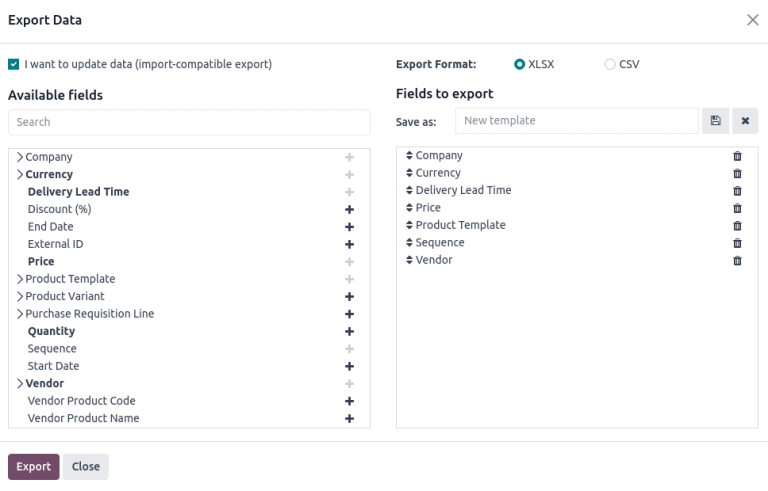
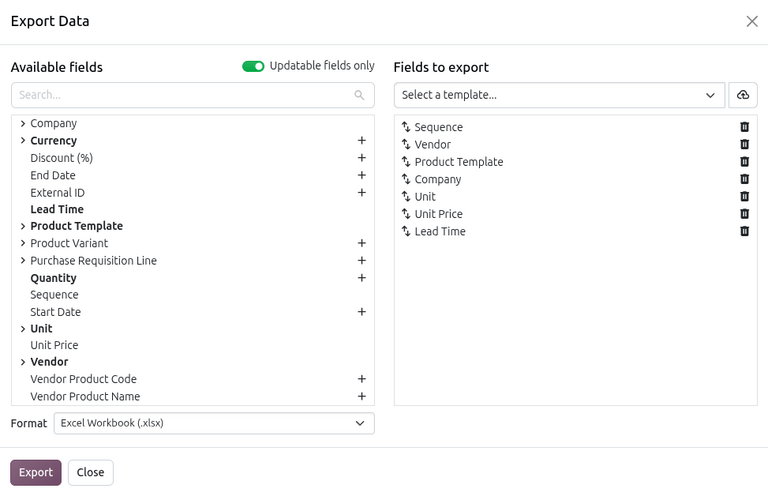
[IMP] Purchase: vendor pricelists update 20.0
closes odoo/documentation#20657

X-original-commit: fd8c2c196b129e9c08eaf0293a3a7c847785ba24

diff --git a/content/applications/inventory_and_mrp/purchase/products/pricelist.rst b/content/applications/inventory_and_mrp/purchase/products/pricelist.rst
@@ -2,12 +2,15 @@
 Import vendor pricelist
 =======================
 
-Set vendor prices to auto-populate requests for quotations (RFQs) or purchase orders (POs) with the
-unit price, once the product is added, which reduces errors and saves time.
+.. |RfQ| replace:: :abbr:`RfQ (Request for Quotation)`
+.. |PO| replace:: :abbr:`PO (Purchase Order)`
 
-In Odoo, vendor pricelists can be :ref:`added individually <purchase/products/pricelist>` on the
-product form, or :ref:`imported in bulk <purchase/products/import-pricelist>`, via an XLSX or CSV
-file.
+In the **Purchase** app, users can add vendor pricelists to products to automatically populate
+requests for quotation (RfQs) or purchase orders (POs) with their unit price, quantity, and lead
+time.
+
+Vendor pricelists can be :ref:`added individually <purchase/products/pricelist>` on the product
+form, or :ref:`imported in bulk <purchase/products/import-pricelist>`, via an XLSX or CSV file.
 
 .. important::
    Please review this :doc:`import guide <../../../essentials/export_import_data>` before uploading
@@ -21,18 +24,29 @@ On product form
 To manually add the vendor price on the product form, go to the :menuselection:`Purchase app -->
 Products --> Products`, and click the desired product.
 
-.. note::
+.. tip::
    Product forms are accessible from multiple apps, such as **Sales**, **Inventory**, and
    **Manufacturing**.
 
-In the :guilabel:`Purchase` tab of the product form, input the vendor and their price, to have this
-information auto-populate on a request for quotation each time the product is listed.
+In the *Purchase* tab of the product form, enter the :guilabel:`Vendor`, :guilabel:`Unit Price`, and
+:guilabel:`Quantity` of the product to auto-populate this information on an |RfQ|.
 
-.. seealso::
-   :ref:`Vendor pricelist on product form <purchase/manage_deals/vendor-pricelist>`
+.. note::
+   Confirming a |PO| does **not** automatically create a vendor pricelist line. When a vendor has no
+   pricelist for the product, the |RfQ| uses the price, discount, and lead time from that vendor's
+   most recently confirmed |PO| line.
 
 .. image:: pricelist/product-form-pricelist.png
    :alt: Vendor pricelist on product form.
+
+.. tip::
+   To compare the last prices each vendor charged, click the :icon:`fa-credit-card`
+   :guilabel:`(Purchased)` smart button on the product form, or :icon:`fa-dollar` :guilabel:`Price
+   Comparison` smart button on a |PO| (if applicable). Records are grouped by product, then by
+   vendor.
+
+.. seealso::
+   :ref:`Vendor pricelist on product form <purchase/manage_deals/vendor-pricelist>`
 
 .. _purchase/products/import-pricelist:
 
@@ -43,7 +57,7 @@ To import vendor pricelists, ensure the XLSX or CSV file is accurately completed
 obtain a correctly formatted template, including product names, references, and vendor details, is
 to first :ref:`export a pricelist <purchase/products/export-price>` from the database.
 
-Modify the exported file, as needed, then import it back into the Odoo database.
+Modify the exported file as needed, then import it back into the Odoo database.
 
 .. _purchase/products/export-price:
 
@@ -52,35 +66,32 @@ Export pricelist
 
 To export a pricelist, go to :menuselection:`Purchase app --> Configuration --> Vendor Pricelists`.
 
-On the page, tick the checkbox(es) for the desired vendor pricelists.
+On the page, select the checkboxes for the desired vendor pricelists. Then, click the :icon:`fa-cog`
+:guilabel:`Actions` button that appears, and choose :icon:`fa-upload` :guilabel:`Export` from the
+drop-down menu.
 
-Then, click the :icon:`fa-cog` :guilabel:`Actions` button that appears, and choose :icon:`fa-upload`
-:guilabel:`Export` from the drop-down menu.
-
-.. image:: pricelist/export.png
-   :alt: Show selected exported fields, with the Export button visible.
-
-In the resulting pop-up window, fields listed under the :guilabel:`Fields to export` section are
-included in the exported file. To add more fields, find the desired field in the
-:guilabel:`Available fields` section, and click the :icon:`fa-plus` :guilabel:`(plus)` icon to the
-right of the field.
+In the resulting pop-up window, fields from the *Fields to export* section are included in the
+exported file. To add more fields, find the desired field in the *Available fields* section, and
+click the :icon:`fa-plus` :guilabel:`(plus)` icon next to the field.
 
 .. note::
-   To update to existing records, tick the :guilabel:`I want to update data (import-compatible
-   export)` checkbox, and refer to the section on the :ref:`External ID
+   Toggle the :icon:`fa-toggle-on` :guilabel:`Updatable fields only` option to filter the *Available
+   fields* to modifiable fields only. Refer to the section on the :ref:`External ID
    <purchase/products/external-id>` field.
 
    For details on commonly-used fields for importing vendor pricelists, see the :ref:`Common fields
    <purchase/products/common-fields>` section.
 
-Select the desired :guilabel:`Export Format`: :guilabel:`XLSX` or :guilabel:`CSV`.
-
-To save the selected fields as a template, click the :guilabel:`Template` field, and select
-:guilabel:`New template` from the drop-down menu. Type the name of the new template, and click the
-:icon:`fa-floppy-o` :guilabel:`(save)` icon. After that, the template is a selectable option when
-clicking the :guilabel:`Template` field.
+Select the desired export :guilabel:`Format`: :guilabel:`Excel Workbook (.xlsx)` or :guilabel:`Plain
+Text (csv)`.
 
 Finally, click :guilabel:`Export`.
+
+.. tip::
+   To save the current list of *Fields to export* as a template, click the :icon:`oi-cloud-upload`
+   :guilabel:`(Save as export template)`. In the resulting text field, set the template name, then
+   click :icon:`fa-check` :guilabel:`(save)` to save or :icon:`fa-xmark` :guilabel:`(cancel)` to
+   cancel.
 
 .. note::
    With :ref:`developer mode <developer-mode>` turned on, the column names of the exported file
@@ -98,9 +109,13 @@ Finally, click :guilabel:`Export`.
 External ID
 ~~~~~~~~~~~
 
-*External ID* is a unique identifier used to update existing vendor pricelists. Without it, imported
-records create new entries, instead of updating existing ones. Including this field in the XLSX or
-CSV, indicates the line replaces an existing vendor pricelist in the Odoo database.
+An *External ID* is a unique identifier used to update existing vendor pricelists. Without it,
+imported records create new entries instead of updating existing ones. Including this field in the
+XLSX or CSV indicates the line replaces an existing vendor pricelist in the Odoo database.
+
+With the :icon:`fa-toggle-on` :guilabel:`Updatable fields only` option toggled, select the
+:guilabel:`External ID` field from the list of *Available fields*. Exporting the data creates a file
+with an additional column containing the external ID.
 
 .. example::
    .. figure:: pricelist/duplicate-values.png
@@ -108,14 +123,6 @@ CSV, indicates the line replaces an existing vendor pricelist in the Odoo databa
 
       `Ready Mat` appears twice because the external ID was omitted during the price update from
       `$790` to `$780`.
-
-To look-up the :guilabel:`External ID` for a vendor pricelist, tick the :guilabel:`I want to update
-data (import-compatible export)` checkbox at the top of the :guilabel:`Export Data` pop-up window.
-
-.. note::
-   Selecting :guilabel:`External ID` from the :guilabel:`Available fields` section with the
-   :guilabel:`I want to update data (import-compatible export)` checkbox ticked results in an export
-   file with two columns containing the external ID.
 
 .. _purchase/products/common-fields:
 
@@ -178,18 +185,18 @@ With a template downloaded, fill out the XLSX or CSV file with the necessary inf
 inputting everything, import the file back into the Odoo database, by going to
 :menuselection:`Purchase app --> Configuration --> Vendor Pricelists`.
 
-On the page, click the :icon:`fa-cog` :guilabel:`(gear)` icon in the top-left corner. In the
-drop-down menu that appears, click :guilabel:`Import records`.
+On the page, click the :icon:`fa-cog` :guilabel:`(Actions)` icon, then select :icon:`fa-download`
+:guilabel:`Import`.
 
-Then, click :guilabel:`Upload File` in the upper-left corner, and after selecting the XLSX or CSV
-file, confirm the correct fields, and click :guilabel:`Import`.
+On the page, click :guilabel:`Upload`, and select the XLSX or CSV file. Verify the :guilabel:`File
+Column` and :guilabel:`Odoo Field` fields are correct, then click :guilabel:`Import`.
+
+.. image:: pricelist/supplier-pricelist-example.png
+   :alt: File mapping screen.
 
 .. seealso::
    - :doc:`../../../essentials/export_import_data`
    - :ref:`Common fields <purchase/products/common-fields>`
-
-.. image:: pricelist/supplier-pricelist-example.png
-   :alt: Upload file screen.
 
 Formatting import file
 ~~~~~~~~~~~~~~~~~~~~~~
@@ -244,9 +251,6 @@ An import file is created to do the following:
      - [E-COM09] Large Desk
      - 7
      - Azure Interior
-
-.. note::
-   The *technical field name* was used to create this information.
 
 .. note::
    Download the sample files for reference:

diff --git a/content/applications/inventory_and_mrp/purchase/manage_deals/rfq.rst b/content/applications/inventory_and_mrp/purchase/manage_deals/rfq.rst
@@ -25,10 +25,10 @@ one by selecting :guilabel:`New`. Doing so opens the product form, where sales a
 can be configured.
 
 To configure purchasable products, enable the :guilabel:`Purchase` checkbox under the product name.
-Next, go to the :guilabel:`Inventory` tab, and enable the :guilabel:`Buy` route.
+Next, go to the *Inventory* tab and enable the :guilabel:`Buy` route.
 
 .. important::
-   The :guilabel:`Inventory` tab and routes are only visible if using the :doc:`Inventory app
+   The *Inventory* tab and routes are only visible if using the :doc:`Inventory app
    <../../inventory>`.
 
 .. seealso::
@@ -38,18 +38,17 @@ Next, go to the :guilabel:`Inventory` tab, and enable the :guilabel:`Buy` route.
 .. image:: rfq/product-vendor-pricelist-config.png
    :alt: Required configuration for purchasable products.
 
-
 .. _purchase/manage_deals/vendor-pricelist:
 
 Vendor pricelist
 ----------------
 
-In the :guilabel:`Purchase` tab of the product form, click :guilabel:`Add a line` to input the
-vendor and their price, to have this information auto-populate on an |RFQ| each time the product is
-listed.
+To have the vendor and their price auto-populate on an |RFQ| each time the product is listed, open the *Purchase* tab of the product form and click :guilabel:`Add a line` to enter the information.
 
-.. seealso::
-   :doc:`../products/pricelist`
+.. note::
+   Confirming a |PO| does **not** automatically create a vendor pricelist line. When a vendor has no
+   pricelist for the product, the |RFQ| uses the price, discount, and lead time from that vendor's
+   most recently confirmed |PO| line.
 
 Default columns include :guilabel:`Quantity`, :guilabel:`Unit Price`, and :guilabel:`Delivery Lead
 Time`, but other columns, like :guilabel:`Vendor Product Code` or :guilabel:`Discount (%)`, can also
@@ -57,13 +56,16 @@ be enabled.
 
 To enable or disable columns, click the :icon:`oi-settings-adjust` :guilabel:`(additional options)`
 icon on the right side of the header row to reveal a drop-down menu of additional columns that can
-be added (or removed) from the :guilabel:`Purchase` tab.
+be added (or removed) from the *Purchase* tab.
 
 .. note::
    Alternatively, prices and delivery lead times for existing products can be added by going to
    :menuselection:`Purchase app --> Configuration --> Vendor Pricelists`. Click :guilabel:`New` in
    the top-left corner. In the :guilabel:`Vendor` section of the pricelist form that appears, add
    the product information as it pertains to the vendor.
+
+.. seealso::
+   :doc:`../products/pricelist`
 
 .. _purchase/manage_deals/group-rfqs:
 
@@ -210,8 +212,8 @@ order is to be shipped directly to the end customer. When :guilabel:`Dropship` i
 Products tab
 ~~~~~~~~~~~~
 
-In the :guilabel:`Products` tab, add the products to be ordered. Click :guilabel:`Add a product`,
-and type in the product name, or select the item from the drop-down menu.
+In the *Products* tab, add the products to be ordered. Click :guilabel:`Add a product`, and type in
+the product name, or select the item from the drop-down menu.
 
 To create a new product and add it, type the new product name in the :guilabel:`Product` column,
 select :guilabel:`Create [product name]` from the resulting drop-down menu and manually add the unit

diff --git a/content/applications/inventory_and_mrp/purchase/products/temporary_reordering.rst b/content/applications/inventory_and_mrp/purchase/products/temporary_reordering.rst
@@ -39,9 +39,10 @@ Next, click the *Purchase* tab, and under :guilabel:`Vendor`, click :guilabel:`A
 select a vendor from the drop-down menu. Then, set a purchase price under :guilabel:`Unit Price`.
 
 .. important::
-   A vendor **must** be set for temporary reordering rules to work. Attempting to replenish the
-   product from the *Replenishment* dashboard in the **Inventory** app without one triggers a
-   warning to add a vendor on the product form.
+   For temporary reordering rules to work, a vendor **must** be set, or the product must have been
+   purchased on at least one confirmed |PO|. Attempting to replenish the product from the
+   *Replenishment* dashboard in the **Inventory** app without one of these triggers a warning to add a vendor
+   on the product form.
 
 Before creating an |SO| for the product, ensure the :guilabel:`Quantity On Hand` field, on the
 *General Information* tab, reads `0.00 Units`. Then, ensure that the :icon:`fa-refresh`
@@ -78,9 +79,9 @@ On this dashboard, locate the product for which the temporary reordering rule wa
 product line, its :guilabel:`On Hand` quantity, negative :guilabel:`Forecast` quantity, *Buy*
 :guilabel:`Route`, and :guilabel:`To Order` quantity to replenish can be seen.
 
-Additionally, three replenishment options are located to the far-right of the row:
-:icon:`fa-truck` :guilabel:`Order`, :icon:`fa-refresh` :guilabel:`Automate`, and
-:icon:`fa-bell-slash` :guilabel:`Snooze`.
+Additionally, three replenishment options are located at the end of the row: :icon:`fa-truck`
+:guilabel:`Order`, :icon:`fa-refresh` :guilabel:`Automate`, and :icon:`fa-bell-slash`
+:guilabel:`Snooze`.
 
 .. image:: temporary_reordering/temporary-reordering-replenishment-dashboard.png
    :alt: Replenishment report displaying temporary reordering rule and options.

diff --git a/content/applications/inventory_and_mrp/purchase/advanced/suggest.rst b/content/applications/inventory_and_mrp/purchase/advanced/suggest.rst
@@ -15,10 +15,10 @@ First, ensure that the **Purchase**, **Inventory**, and **Sales** apps are :ref:
 <inventory/delivery/one-step>` for each product to be considered for replenishment. This ensures
 there is a past delivery record the system can use to calculate average daily demand.
 
-Similarly, a vendor must be added to the :ref:`vendor pricelist
-<purchase/manage_deals/vendor-pricelist>` with a purchase price for each product. The *Suggest*
-feature is vendor-specific, so each product needs a matching vendor for accurate purchase quantity
-and price calculations.
+Additionally, each product must include a vendor on its :ref:`vendor pricelist
+<purchase/manage_deals/vendor-pricelist>`, or at least one confirmed purchase order (PO) from that
+vendor. The *Suggest* feature is vendor-specific, so each product needs a matching vendor for
+accurate purchase quantity and price calculations.
 
 Finally, products to be used with the *Suggest* feature must have their *Product Type* set to
 *Goods* and be :ref:`Tracked by quantity <inventory/product_management/manufacture>`. This ensures

diff --git a/content/applications/inventory_and_mrp/inventory/warehouses_storage/replenishment/mto.rst b/content/applications/inventory_and_mrp/inventory/warehouses_storage/replenishment/mto.rst
@@ -88,8 +88,8 @@ Then, click the *Purchase* tab and specify a :guilabel:`Vendor` and a :guilabel:
 product.
 
 .. important::
-   For purchased products, users **must** specify a vendor in order for Odoo to properly generate an
-   |RFQ|.
+   For purchased products, users **must** specify a vendor or have at least one confirmed |PO| for
+   the product in order for Odoo to properly generate an |RFQ|.
 
 .. _inventory/mto/configure-mto-product/manufactured:
 
